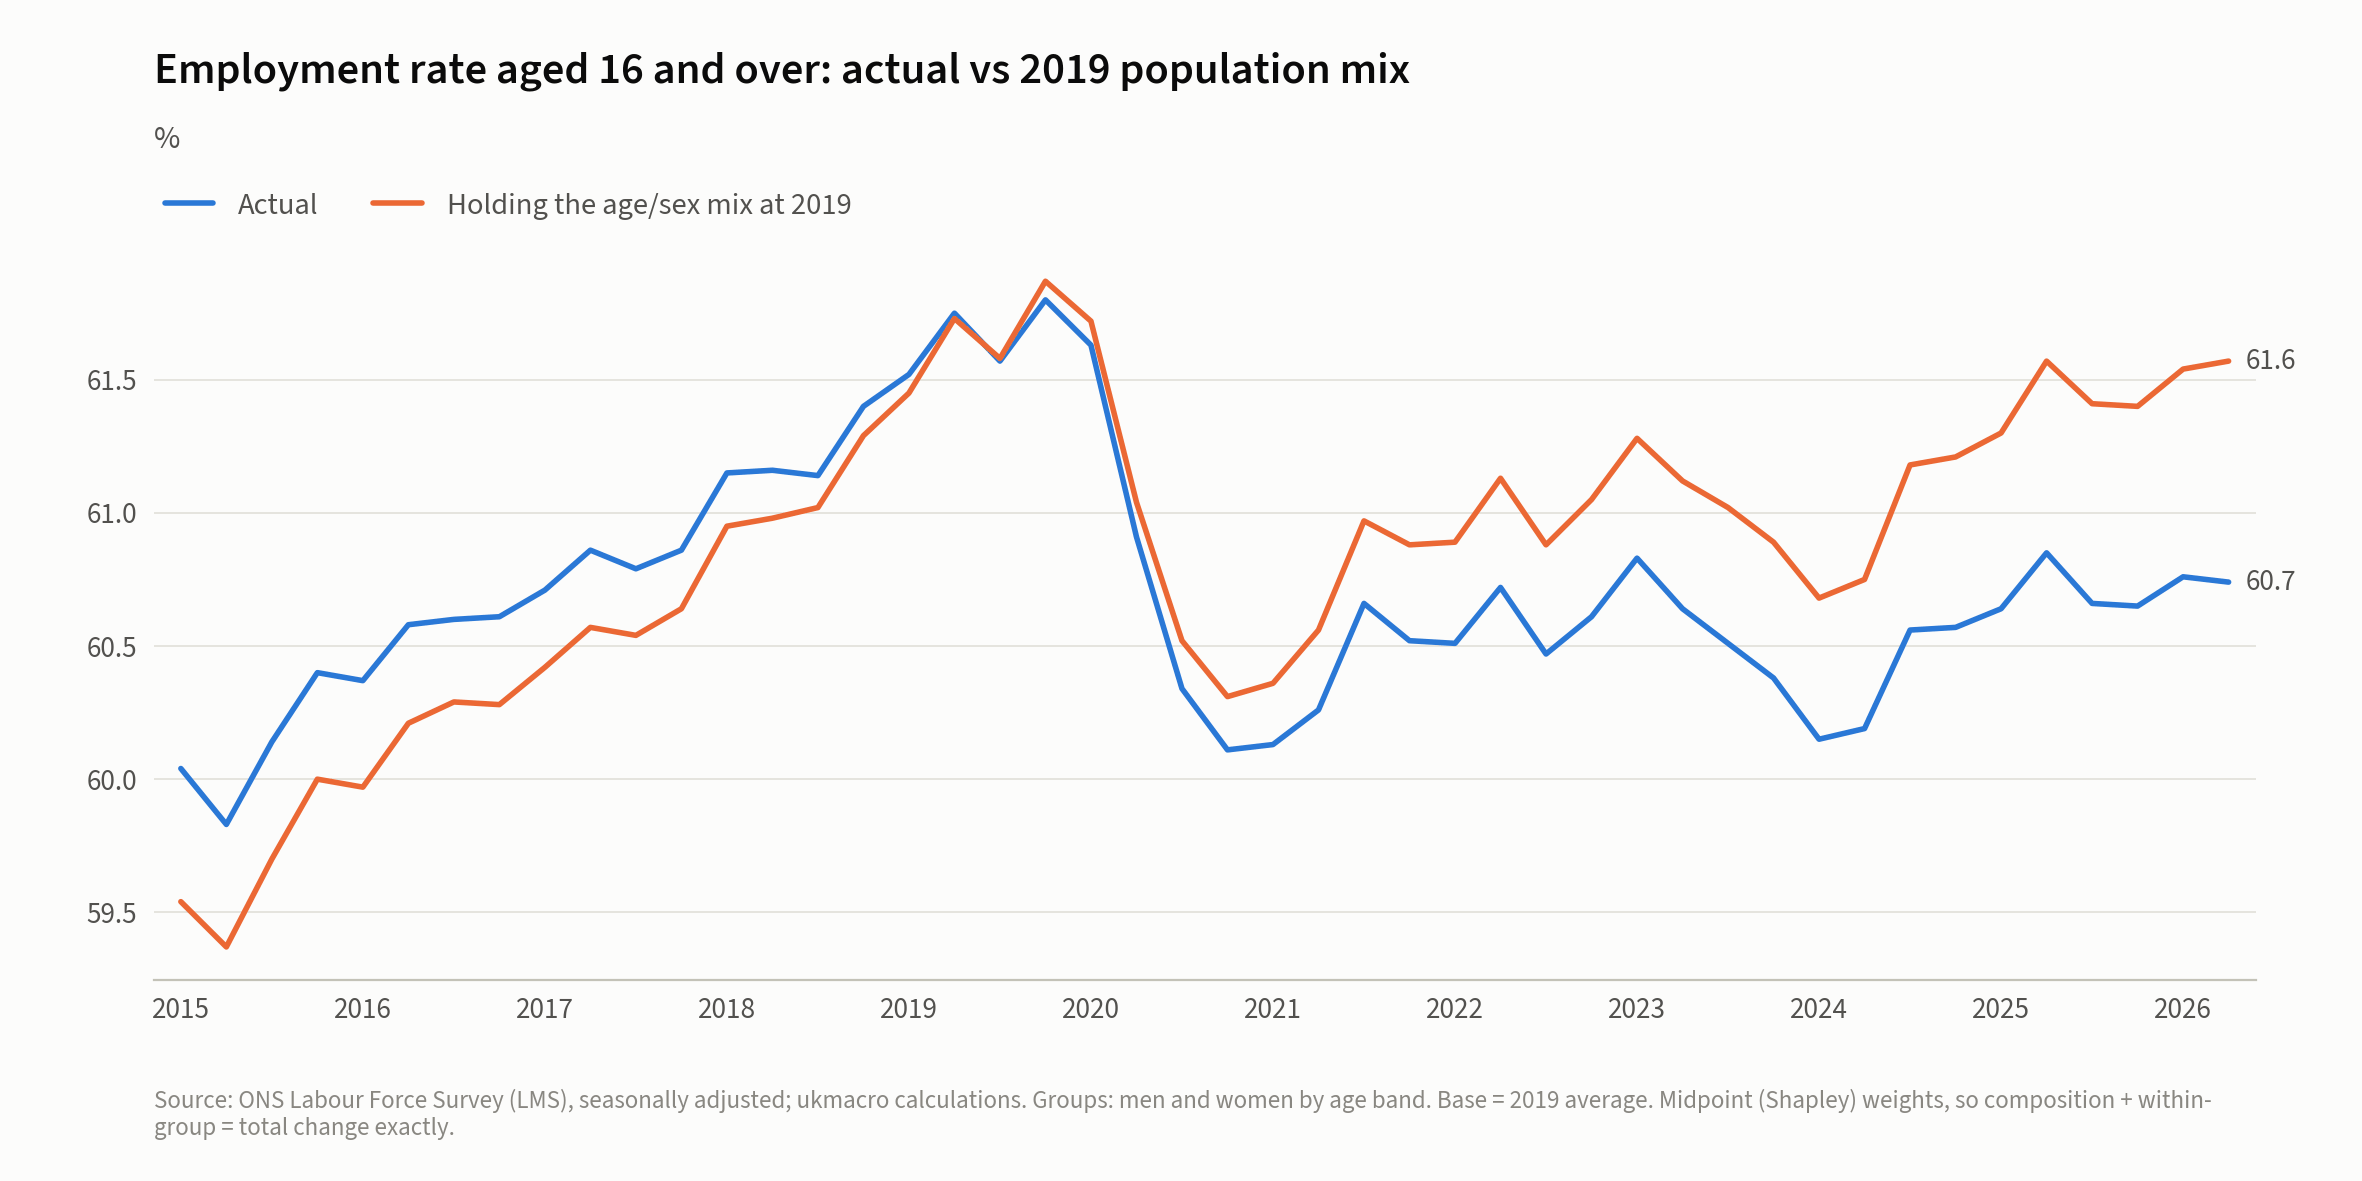
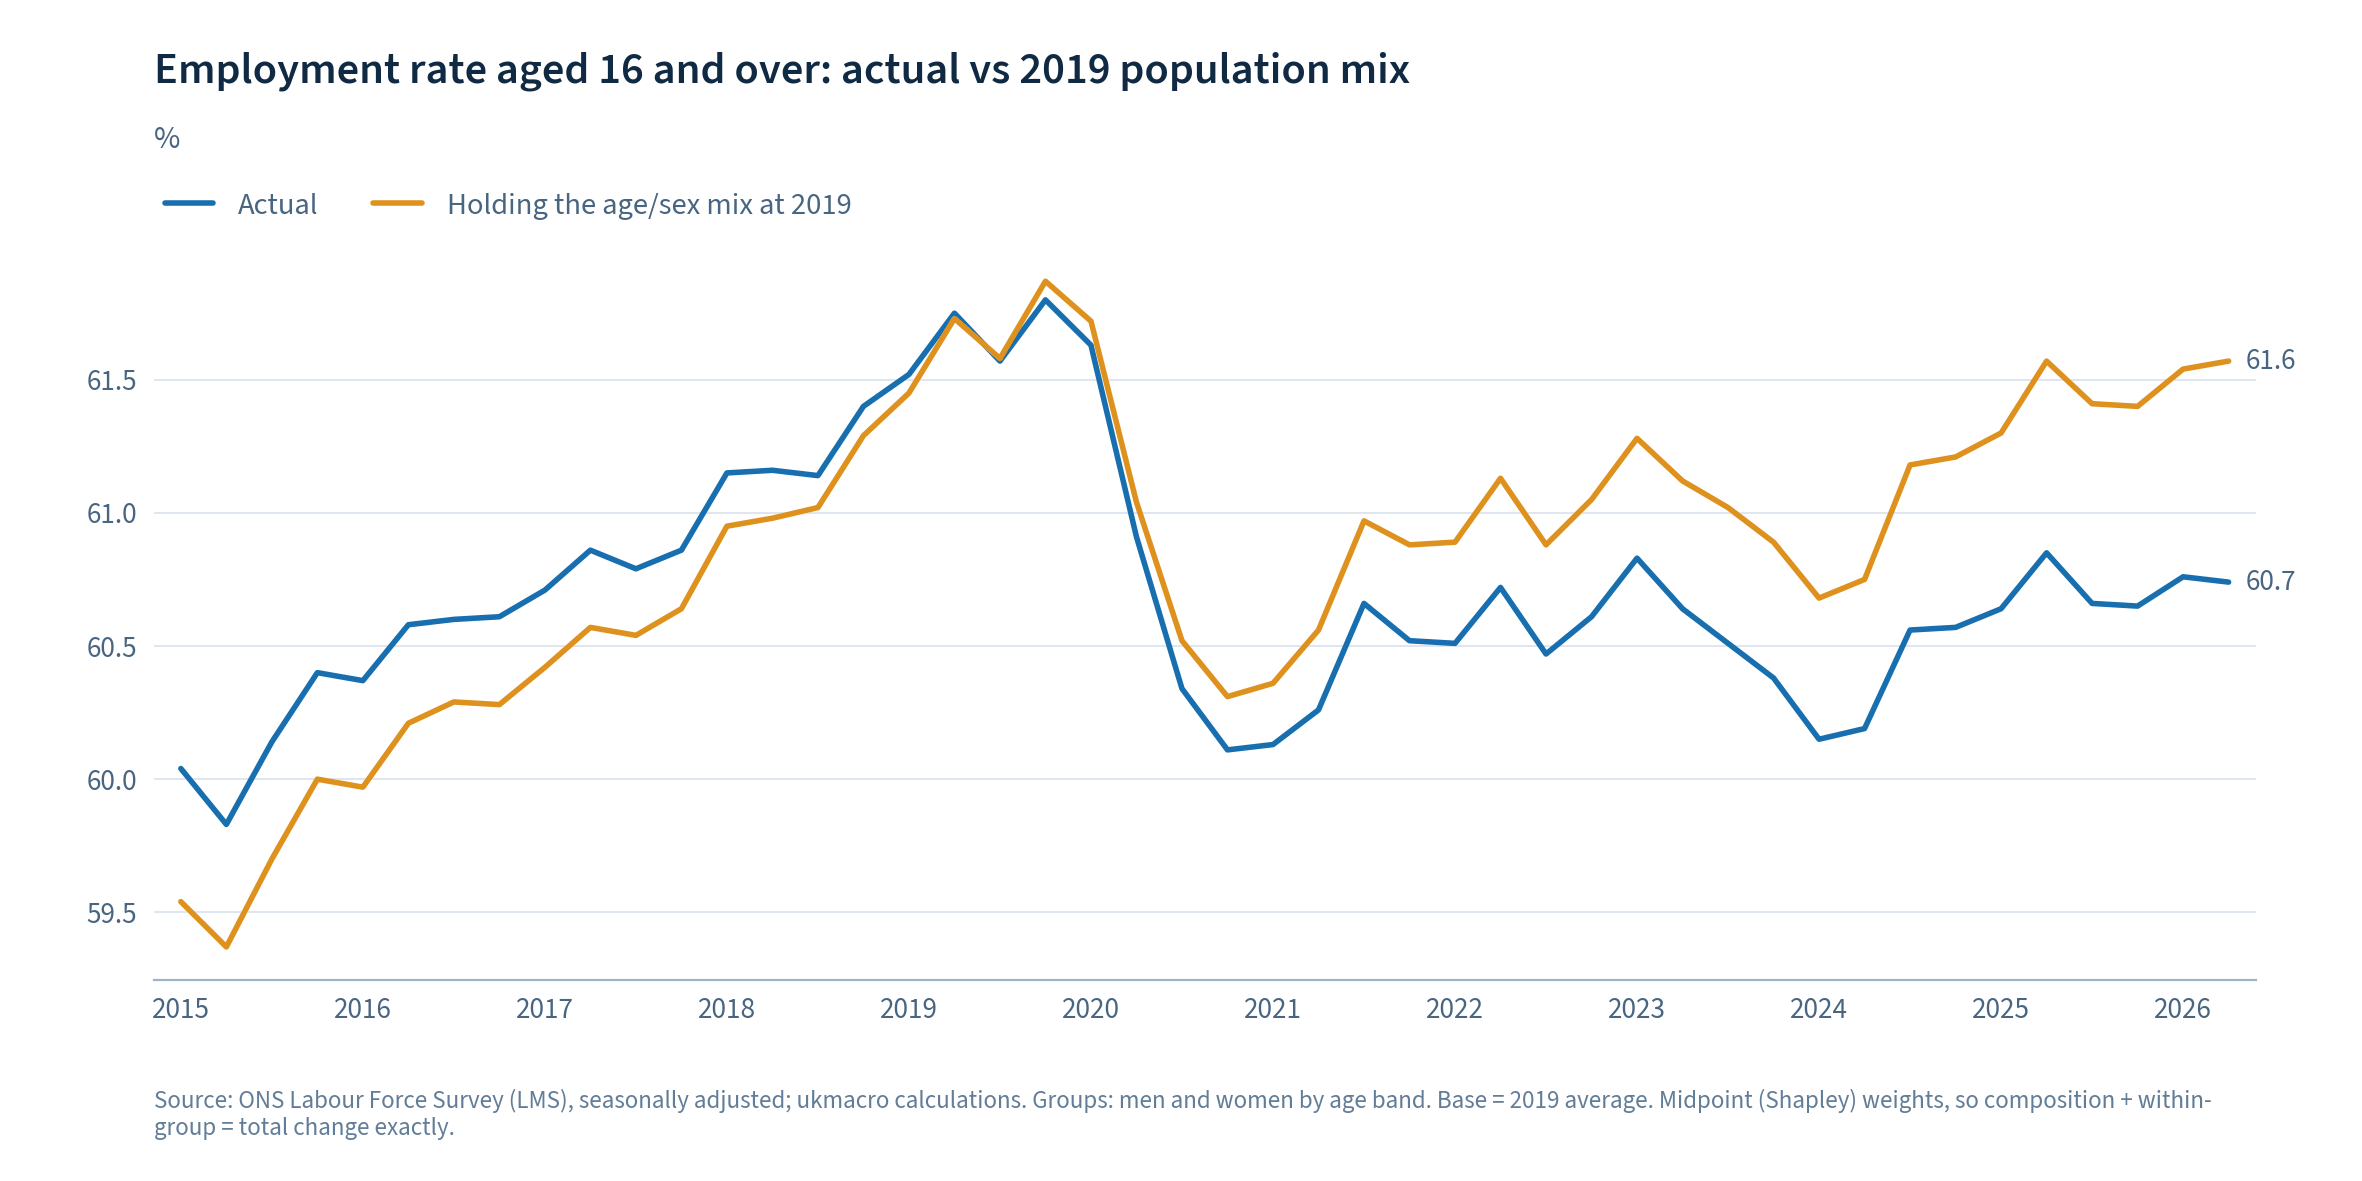
Switch PNG charts to the blue-amber theme; add selectable colour themes
Themes built from svengraziani/ui-design's professional UI palettes (Blue + Yellow
Vivid + Blue Grey as default), each series pair checked for colour-blind separation.

diff --git a/ukmacro/charts.py b/ukmacro/charts.py
@@ -4,13 +4,10 @@ House style, used for every PNG:
     size      30 x 15 cm at 200 dpi (2362 x 1181 px), saved as a 256-colour PNG
     font      Source Sans 3 (SIL Open Font License, in assets/fonts/), so output is
               identical on a laptop and on GitHub Actions
-    colours   series slots, in this fixed order:
-                1 blue #2a78d6   2 orange #eb6834   3 aqua #1baf7a   4 yellow #eda100
-              (the first slots of a colour-blind-validated categorical palette; colour
-              follows the series' position in the chart, never its value)
-              totals / reference lines in ink #0b0b0b
-              surface #fcfcfb, primary text #0b0b0b, secondary #52514e,
-              muted (axes, source) #898781, gridlines #e1e0d9, zero line #c3c2b7
+    colours   a theme from THEMES (DEFAULT_THEME is used unless render() is given
+              one): series colours in fixed order (colour follows the series' position
+              in the chart, never its value), totals / reference lines in the theme's
+              ink, and its grey scale for text, axes and gridlines
     marks     2pt lines, hairline horizontal gridlines only, no chart border,
               legend above the plot, direct value labels at line ends
 
@@ -35,34 +32,64 @@ FONTS = Path(__file__).resolve().parent.parent / "assets" / "fonts"
 for f in FONTS.glob("*.ttf"):
     font_manager.fontManager.addfont(str(f))
 
-SERIES = ["#2a78d6", "#eb6834", "#1baf7a", "#eda100", "#e87ba4", "#008300", "#4a3aa7", "#e34948"]
-INK = "#0b0b0b"
-SURFACE = "#fcfcfb"
-TEXT_2 = "#52514e"
-MUTED = "#898781"
-GRID = "#e1e0d9"
-BASELINE = "#c3c2b7"
+# Colour themes. Series colours are used in this fixed order; neutrals carry all
+# text, axes and gridlines. "reference" is the dataviz skill's validated palette; the
+# others are built from the "Professional UI colour palettes" scales (Refactoring UI
+# style) by svengraziani/ui-design: one or two strong hues for data plus the matching
+# grey scale. Every series pair below passes a colour-blind check (worst simulated
+# separation >= 8 in OKLab x100; normal-vision separation >= 15).
+THEMES = {
+    "reference": {
+        "series": ["#2a78d6", "#eb6834", "#1baf7a", "#eda100"],
+        "ink": "#0b0b0b", "text_2": "#52514e", "muted": "#898781",
+        "grid": "#e1e0d9", "baseline": "#c3c2b7", "surface": "#fcfcfb"},
+    # Blue + Yellow Vivid + Blue Grey (palette 2), teal as the third series
+    "blue-amber": {
+        "series": ["#186FAF", "#DE911D", "#27AB83", "#BA2525"],
+        "ink": "#102A43", "text_2": "#486581", "muted": "#627D98",
+        "grid": "#D9E2EC", "baseline": "#9FB3C8", "surface": "#FFFFFF"},
+    # Cyan + Warm Grey (palette 7), amber and red as supporting series
+    "cyan-warm": {
+        "series": ["#0E7C86", "#DE911D", "#BA2525", "#486581"],
+        "ink": "#27241D", "text_2": "#625D52", "muted": "#857F72",
+        "grid": "#E8E6E1", "baseline": "#B8B2A7", "surface": "#FAF9F7"},
+    # Blue Vivid + Cool Grey (palette 8), red vivid and teal as supporting series
+    "blue-red": {
+        "series": ["#0967D2", "#E12D39", "#27AB83", "#DE911D"],
+        "ink": "#1F2933", "text_2": "#52606D", "muted": "#7B8794",
+        "grid": "#E4E7EB", "baseline": "#9AA5B1", "surface": "#F5F7FA"},
+}
+DEFAULT_THEME = "blue-amber"
 
 CM = 1 / 2.54
 SIZE = (30 * CM, 15 * CM)
 DPI = 200
 
-plt.rcParams.update({
-    "font.family": "Source Sans 3",
-    "font.size": 11,
-    "axes.edgecolor": BASELINE,
-    "axes.labelcolor": TEXT_2,
-    "xtick.color": MUTED,
-    "ytick.color": MUTED,
-    "xtick.labelcolor": TEXT_2,
-    "ytick.labelcolor": TEXT_2,
-    "xtick.labelsize": 10.5,
-    "ytick.labelsize": 10.5,
-    "axes.titlesize": 16,
-    "figure.facecolor": SURFACE,
-    "axes.facecolor": SURFACE,
-    "savefig.facecolor": SURFACE,
-})
+
+def use_theme(name: str) -> None:
+    """Switch every colour used below (they are module-level so the drawing code stays short)."""
+    global SERIES, INK, TEXT_2, MUTED, GRID, BASELINE, SURFACE
+    t = THEMES[name]
+    SERIES, INK, TEXT_2, MUTED = t["series"], t["ink"], t["text_2"], t["muted"]
+    GRID, BASELINE, SURFACE = t["grid"], t["baseline"], t["surface"]
+    plt.rcParams.update({
+        "font.family": "Source Sans 3",
+        "font.size": 11,
+        "axes.edgecolor": BASELINE,
+        "axes.labelcolor": TEXT_2,
+        "xtick.color": MUTED,
+        "ytick.color": MUTED,
+        "xtick.labelcolor": TEXT_2,
+        "ytick.labelcolor": TEXT_2,
+        "xtick.labelsize": 10.5,
+        "ytick.labelsize": 10.5,
+        "figure.facecolor": SURFACE,
+        "axes.facecolor": SURFACE,
+        "savefig.facecolor": SURFACE,
+    })
+
+
+use_theme(DEFAULT_THEME)
 
 
 # ---------------------------------------------------------------- frame
@@ -194,5 +221,6 @@ def _grouped_hbar(chart):
 RENDERERS = {"line": _line, "bar": _bars, "stacked-bar": _bars, "grouped-hbar": _grouped_hbar}
 
 
-def render(chart: dict, path: Path) -> Path:
+def render(chart: dict, path: Path, theme: str | None = None) -> Path:
+    use_theme(theme or DEFAULT_THEME)
     return _save(RENDERERS[chart["type"]](chart), path)

diff --git a/builders/labour-markets/composition.py b/builders/labour-markets/composition.py
@@ -146,6 +146,7 @@ def build() -> list[Path]:
                                 "weighted by its population share.")
         for c in (line, decomp, by_group):
             js, png = DATA / f"{c['slug']}.json", IMG / f"{c['slug']}.png"
+            c["theme"] = charts.DEFAULT_THEME  # so a theme change also triggers a re-render
             text = json.dumps(c, indent=1) + "\n"
             # re-render only when the data changed: PNG bytes vary slightly between
             # machines, and an unchanged chart shouldn't produce a daily commit

diff --git a/README.md b/README.md
@@ -115,9 +115,12 @@ far: the employment-rate composition analysis (`img/labour-markets/emp-*.png`).
 
 - 30 x 15 cm at 200 dpi (2362 x 1181 px), 256-colour PNG, about 60 KB each
 - Font: Source Sans 3 (open licence, bundled in `assets/fonts/`, so output matches on any machine)
-- Series colours in fixed order: blue `#2a78d6`, orange `#eb6834`, aqua `#1baf7a`,
-  yellow `#eda100`. Totals in ink `#0b0b0b`. Background `#fcfcfb`, text `#0b0b0b` /
-  `#52514e`, axes and source `#898781`, gridlines `#e1e0d9`
+- Colours: the "blue-amber" theme, built from the Blue, Yellow Vivid and Blue Grey
+  scales of svengraziani/ui-design's professional UI palettes. Series in fixed order:
+  blue `#186FAF`, amber `#DE911D`, teal `#27AB83`, red `#BA2525`. Totals in `#102A43`.
+  White background, text `#102A43` / `#486581`, axes and source `#627D98`, gridlines
+  `#D9E2EC`. Every series pair passes a colour-blind check. Other themes are in
+  `THEMES` in `charts.py`; change `DEFAULT_THEME` to switch.
 
 ## Employment composition
 
